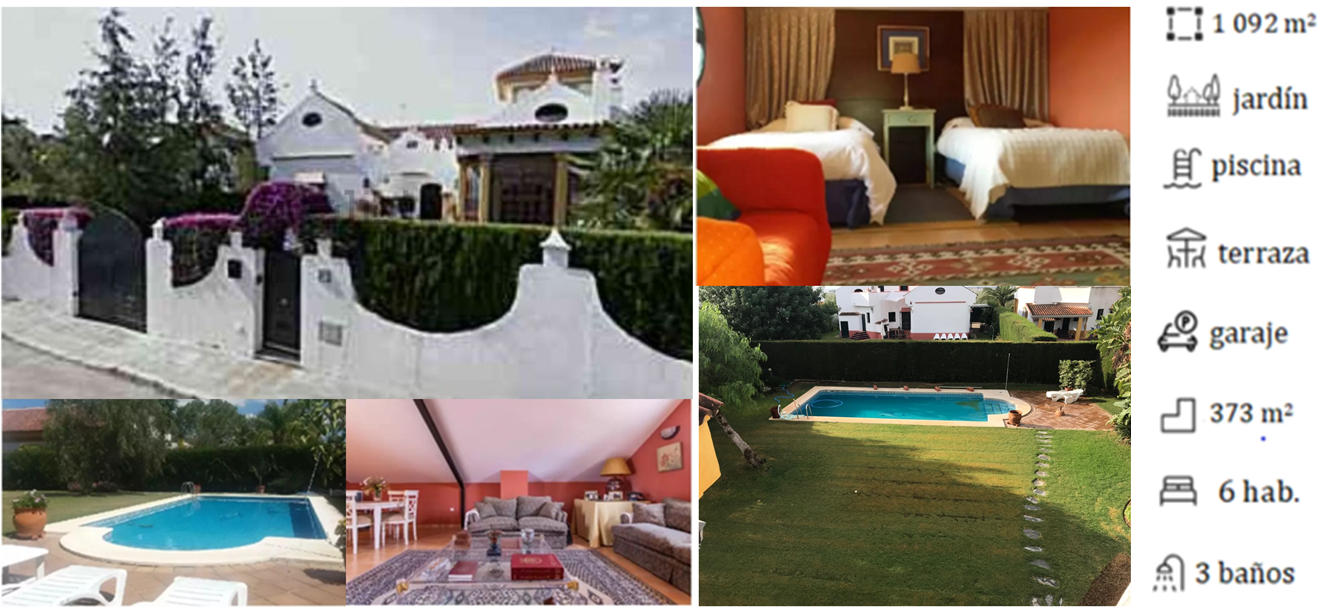
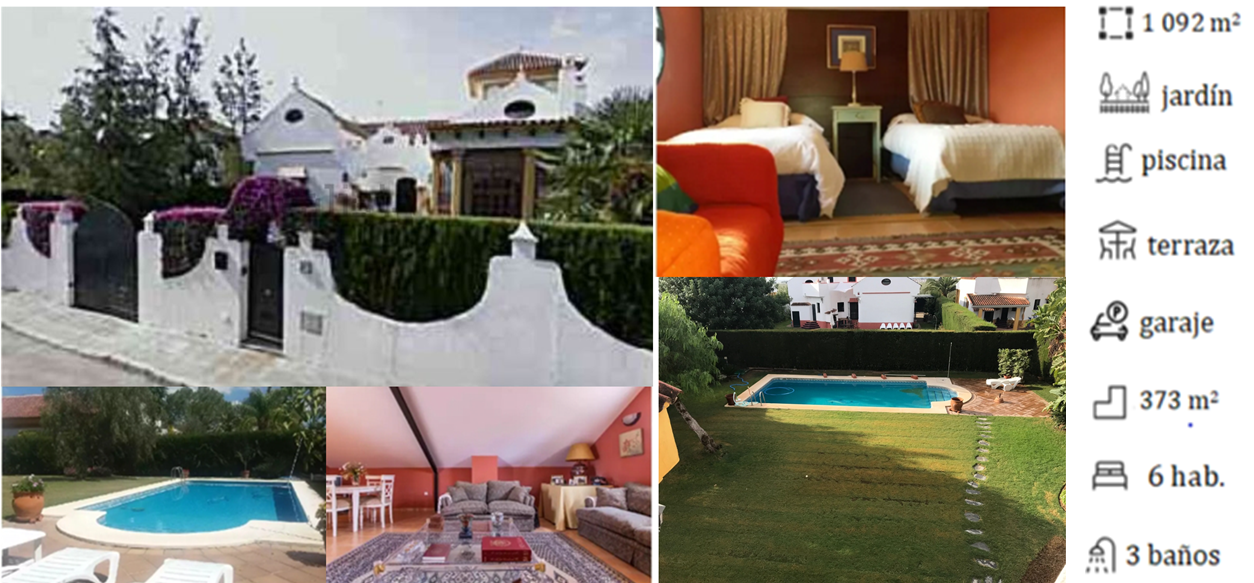
Veo

Changed region(s): [[0.0, 0.0, 0.9952, 1.0], [0.1866, 0.494, 0.3732, 0.6175], [0.0, 0.494, 0.0311, 0.5249]]

diff --git a/subasta/index.html b/subasta/index.html
@@ -30,7 +30,7 @@
     <div id="feature"> 
       <h1>Casa en Espartinas (El Aljarafe, Sevilla) </h1>
       <p class="Estilo3"><span class="Resaltar Estilo5">Esta propiedad se encuentra actualmente en la fase final del proceso de ejecuci&oacute;n hipotecaria, en que solo falta el anuncio de subasta y la ejecuci&oacute;n de esta.</span> <span class="Resaltar"><span class="Estilo5">Puede comprarse directamente la hipoteca con el proceso casi acabado</span> o ser <span class="Estilo2">adjudicada</span> <span class="Estilo5">por una cantidad</span> que supere los <span class="Estilo2">251.633</span> &euro;</span>. <strong class="Resaltar">El valor solicitado por propiedades similares</strong> <span class="Resaltar Estilo5">a esta tiene</span>  <span class="Resaltar"><strong>un valor medio de 379.652 &euro;</strong></span> <span class="Resaltar"><span class="Estilo5">y se muestra</span> en</span> <span class="Resaltar"><a href="https://www.idealista.com/inmueble/96631715/">Casa1</a>, <a href="https://www.idealista.com/inmueble/95717442/">Casa2</a>, <a href="https://www.idealista.com/inmueble/33141352/">Casa3</a></span>. <span class="Resaltar Estilo5">Aunque a&uacute;n no se sabe cu&aacute;ndo se celebrar&aacute; la subasta, estimamos que se llevar&aacute; a cabo despu&eacute;s del verano por lo que existe tiempo para que los interesados puedan  planificar su participaci&oacute;n en la subasta. </span> 
-      <p align="left"><img src="../Assets/images/portada.png" alt="" name="casa" width="1125" height="516" id="casa" />
+      <p align="left"><img src="../Assets/images/portada.png" alt="" name="casa" width="1254" height="583" id="casa" />
       <p><strong class="Resaltar">Nota</strong>: <em>Algunas de las fotograf&iacute;as son de octubre de 2018 y muestran el estado de la casa  adaptada al gusto de sus </em><em>residentes. Otras corresponden a 2022 cuando la casa est&aacute; desocupada. </em></p>
       <p>&nbsp;</p>
       <p>&nbsp;</p> 
